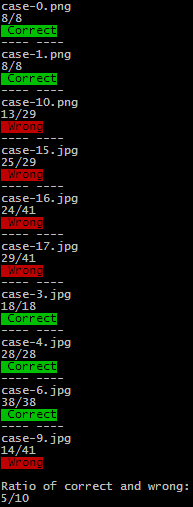
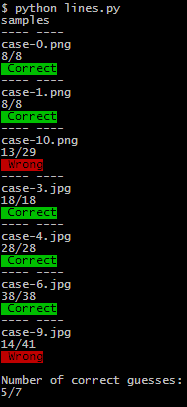
Added comments in a code; small changes to README

Changed region(s): [[0.0, 0.0, 0.9893, 1.0], [0.5615, 0.0, 0.6417, 0.0295]]

diff --git a/lines.py b/lines.py
@@ -25,20 +25,22 @@ def Rotate(image):
 #----------------------------------------------------------------
 def Obfuscate(image):
     kernel = np.ones((5,20), np.uint8)
-    ret,transformed = cv2.threshold(image, 128, 255, cv2.THRESH_BINARY)
+    ret,transformed = cv2.threshold(image, 128, 255, cv2.THRESH_BINARY) #Make image black and white
     transformed = cv2.erode(transformed, kernel, iterations = 4) #best if 3-4
-    transformed = cv2.dilate(transformed, kernel, iterations = 3)
+    transformed = cv2.dilate(transformed, kernel, iterations = 3) #http://docs.opencv.org/2.4/doc/tutorials/imgproc/erosion_dilatation/erosion_dilatation.html
     
     # ^ is better
+    """
     #blur = cv2.blur(image, (200,1)) 
     
-    #kernel = np.ones((1,5), np.uint8)
-    #image = cv2.erode(blur, kernel, iterations = 5)
+    kernel = np.ones((1,5), np.uint8)
+    image = cv2.erode(blur, kernel, iterations = 3) #5
 
-    #kernel = np.ones((5,5), np.uint8)
-    #image = cv2.erode(blur, kernel, iterations = 5)
+    kernel = np.ones((5,5), np.uint8)
+    image = cv2.erode(blur, kernel, iterations = 3) #5
 
-    #ret,transformed = cv2.threshold(image, 200, 255, cv2.THRESH_BINARY)
+    ret,transformed = cv2.threshold(image, 200, 255, cv2.THRESH_BINARY)
+    """
     return transformed
 #----------------------------------------------------------------
 def SaveFile(path, transformed):
@@ -56,26 +58,25 @@ def main(path):
     
     x=0
     y=0
+    z=0
     numberOfColorChanges=0;
-    sumaPromenaStanja=0;
     previousColor=transformed[0,0];
-    biggestNumberOfColorChange=0;
+    highestNumberOfColorChange=0;
     while(x<transformed.shape[0]):
         while(y<transformed.shape[1]):      
             try:   
-                if transformed[y,x]!=previousColor:
+                if transformed[y,x]!=previousColor: #if previous color was white, and now is black, count that as color change
                     previousColor=transformed[y,x]
                     numberOfColorChanges+=1     
             except:
                 pass
             y=y+1
-        x+=1
+        x+=1 #increase to x+=10 for a greater speed, but lower accuracy
         y=0
-        sumaPromenaStanja+=numberOfColorChanges
-        if numberOfColorChanges>biggestNumberOfColorChange:
-            biggestNumberOfColorChange=numberOfColorChanges
+        if numberOfColorChanges>highestNumberOfColorChange:
+            highestNumberOfColorChange=numberOfColorChanges
         numberOfColorChanges=0
-    return biggestNumberOfColorChange/2
+    return highestNumberOfColorChange/2 #If image is white-black text-white that would count as 2 changes of color, hence we divide with 2
 #------------------------------------------------------------------------------------
 path = raw_input()
 totalImages=0
@@ -83,24 +84,25 @@ correctImages=0
 if os.path.isfile(path):
     count = main(path)
     print "Found " + str(count) + " lines"
+    #You can also check a solution read from .out file
 else:  
-    for root, subFolders, files in os.walk(path):  
+    for root, subFolders, files in os.walk(path):  #recursively finds all files in a given folder
         for file in files:  
             if file[file.rfind('.'):]!=".out":
                 print "---- ----"
                 print file
                 totalImages+=1
                 count = main(os.path.join(path, file))
-                solutionPath = os.path.join(path,file[0:file.rfind(".")] + ".out")
+                solutionPath = os.path.join(path,file[0:file.rfind(".")] + ".out") #Read a correct answer from a file named "z.out", if image is name "z.png"
                 solution = open(solutionPath).read()
                 print str(count) + "/" + str(solution)
                 if count==int(solution):           
-                    print "Correct"
-                    #print "\x1b[6;30;42m" + " Correct" + "\x1b[0m" #Colored, doesn't work in CMD
+                    #print "Correct"
+                    print "\x1b[6;30;42m" + " Correct" + "\x1b[0m" #Colored, doesn't work in CMD
                     correctImages+=1
                 else:                   
-                    print "Wrong!"
-                    #print "\x1b[6;30;41m" + " Wrong" + "\x1b[0m" 
+                    #print "Wrong!"
+                    print "\x1b[6;30;41m" + " Wrong" + "\x1b[0m" 
                    
     print "\nNumber of correct guesses: "
     print str(correctImages) + "/" + str(totalImages)

diff --git a/README.md b/README.md
@@ -1,11 +1,12 @@
 # Python text lines counter
 
-Detects number of text lines for a given scanned textual document (image or a folder). 
+Detects number of text lines for a given scanned textual document (an image or a folder). 
 
 - Text must have only straight text lines arranged in one column (no images or tables)
-- Image may be rotated.
+- The images may be rotated.
 - Text can be written in any language, any font or size
 - Needs about 2 seconds per picture
+- 100% accuracy of 50-70% of samples (doesn't detect accurately Arabian letters `case-10` and text on a gradient background `case-9`)
 
 ![](1.png)
 
